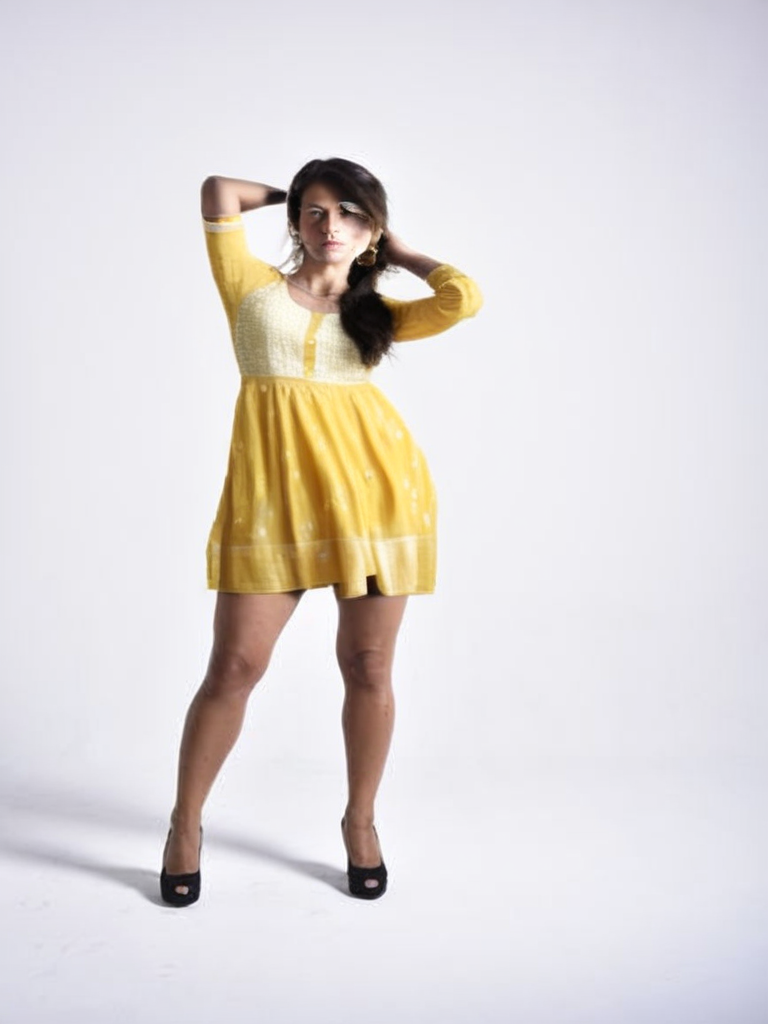
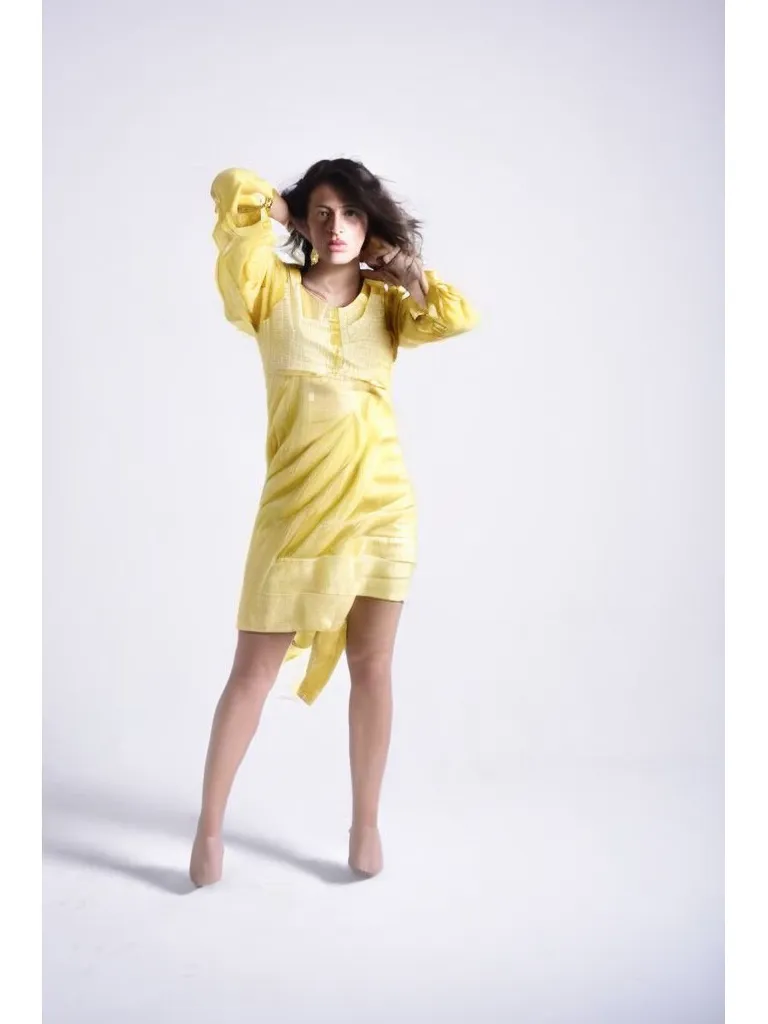
add robust retry logic to bake-results, generate first Leffa result
Rewrite bake-results with exponential backoff, per-space retry loops,
and transient error detection. Raise minimum file size guard to 10KB.
Include first Leffa full-body result (woman-1 anarkali).

Changed region(s): [[0.0, 0.0, 0.625, 1.0], [0.9375, 0.0, 1.0, 1.0]]

diff --git a/scripts/bake-results.ts b/scripts/bake-results.ts
@@ -11,6 +11,7 @@
 
 import { Client } from "@gradio/client";
 import { readFile, writeFile, mkdir } from "node:fs/promises";
+import { existsSync } from "node:fs";
 import { join } from "node:path";
 import process from "node:process";
 
@@ -29,74 +30,52 @@ interface BakePair {
 }
 
 const PAIRS: BakePair[] = [
-  {
-    person: "woman-1.jpg",
-    garment: "anarkali-suit.jpg",
-    out: "woman-1--anarkali.jpg",
-    category: "dresses",
-  },
-  {
-    person: "woman-2.jpg",
-    garment: "anarkali-suit.jpg",
-    out: "woman-2--anarkali.jpg",
-    category: "dresses",
-  },
-  {
-    person: "woman-1.jpg",
-    garment: "lehenga-choli.jpg",
-    out: "woman-1--lehenga.jpg",
-    category: "dresses",
-  },
-  {
-    person: "woman-2.jpg",
-    garment: "lehenga-choli.jpg",
-    out: "woman-2--lehenga.jpg",
-    category: "dresses",
-  },
-  {
-    person: "woman-1.jpg",
-    garment: "salwar-kameez.jpg",
-    out: "woman-1--salwar.jpg",
-    category: "dresses",
-  },
-  {
-    person: "woman-2.jpg",
-    garment: "salwar-kameez.jpg",
-    out: "woman-2--salwar.jpg",
-    category: "dresses",
-  },
-  {
-    person: "man-1.jpg",
-    garment: "kurta-nehru.jpg",
-    out: "man-1--kurta-nehru.jpg",
-    category: "dresses",
-  },
-  {
-    person: "man-2.jpg",
-    garment: "kurta-nehru.jpg",
-    out: "man-2--kurta-nehru.jpg",
-    category: "dresses",
-  },
-  {
-    person: "man-1.jpg",
-    garment: "sherwani.jpg",
-    out: "man-1--sherwani.jpg",
-    category: "dresses",
-  },
-  {
-    person: "man-2.jpg",
-    garment: "sherwani.jpg",
-    out: "man-2--sherwani.jpg",
-    category: "dresses",
-  },
+  { person: "woman-1.jpg", garment: "anarkali-suit.jpg", out: "woman-1--anarkali.jpg", category: "dresses" },
+  { person: "woman-2.jpg", garment: "anarkali-suit.jpg", out: "woman-2--anarkali.jpg", category: "dresses" },
+  { person: "woman-1.jpg", garment: "lehenga-choli.jpg", out: "woman-1--lehenga.jpg", category: "dresses" },
+  { person: "woman-2.jpg", garment: "lehenga-choli.jpg", out: "woman-2--lehenga.jpg", category: "dresses" },
+  { person: "woman-1.jpg", garment: "salwar-kameez.jpg", out: "woman-1--salwar.jpg", category: "dresses" },
+  { person: "woman-2.jpg", garment: "salwar-kameez.jpg", out: "woman-2--salwar.jpg", category: "dresses" },
+  { person: "man-1.jpg", garment: "kurta-nehru.jpg", out: "man-1--kurta-nehru.jpg", category: "dresses" },
+  { person: "man-2.jpg", garment: "kurta-nehru.jpg", out: "man-2--kurta-nehru.jpg", category: "dresses" },
+  { person: "man-1.jpg", garment: "sherwani.jpg", out: "man-1--sherwani.jpg", category: "dresses" },
+  { person: "man-2.jpg", garment: "sherwani.jpg", out: "man-2--sherwani.jpg", category: "dresses" },
 ];
 
 const PRIMARY_SPACE = "franciszzj/Leffa";
 const FALLBACK_SPACE = "zhengchong/CatVTON";
+const MAX_RETRIES = 4;
+const SKIP_EXISTING = process.argv.includes("--skip-existing");
+
+function wait(ms: number) {
+  return new Promise((r) => setTimeout(r, ms));
+}
+
+function backoff(attempt: number): number {
+  return Math.min(5000 * Math.pow(2, attempt), 60000);
+}
 
 async function fileToBlob(path: string): Promise<Blob> {
   const buf = await readFile(path);
   return new Blob([buf], { type: "image/jpeg" });
+}
+
+function extractImageUrl(data: unknown[]): string {
+  const first = data[0];
+  if (typeof first === "string") return first;
+  if (first && typeof first === "object" && "url" in first) return (first as { url?: string }).url ?? "";
+  return "";
+}
+
+async function downloadImage(url: string): Promise<Buffer | null> {
+  const res = await fetch(url);
+  if (!res.ok) return null;
+  const buf = Buffer.from(await res.arrayBuffer());
+  if (buf.length < 10000) {
+    console.log(`  Warning: result too small (${buf.length} bytes), rejecting`);
+    return null;
+  }
+  return buf;
 }
 
 async function tryLeffa(
@@ -120,26 +99,9 @@ async function tryLeffa(
     vt_repaint: false,
   });
 
-  const data = result.data as Array<{ url?: string; path?: string } | string | null>;
-  const first = data[0];
-  let imageUrl = "";
-
-  if (typeof first === "string") {
-    imageUrl = first;
-  } else if (first && typeof first === "object") {
-    imageUrl = first.url ?? "";
-  }
-
+  const imageUrl = extractImageUrl(result.data as unknown[]);
   if (!imageUrl) return null;
-
-  const res = await fetch(imageUrl);
-  if (!res.ok) return null;
-  const buf = Buffer.from(await res.arrayBuffer());
-  if (buf.length < 5000) {
-    console.log(`  Warning: result too small (${buf.length} bytes), likely a thumbnail`);
-    return null;
-  }
-  return buf;
+  return downloadImage(imageUrl);
 }
 
 function mapCategoryToCatVTON(cat: GarmentCategory): string {
@@ -155,7 +117,7 @@ async function tryCatVTON(
   category: GarmentCategory,
 ): Promise<Buffer | null> {
   const client = await Client.connect(FALLBACK_SPACE, {
-    token: token as `hf_${string}` | undefined,
+    hf_token: token as `hf_${string}` | undefined,
   });
 
   const personBlob = await fileToBlob(personPath);
@@ -171,20 +133,84 @@ async function tryCatVTON(
     "result only",
   ]);
 
-  const data = result.data as Array<{ url?: string } | string | null>;
-  let imageUrl = "";
+  const imageUrl = extractImageUrl(result.data as unknown[]);
+  if (!imageUrl) return null;
+  return downloadImage(imageUrl);
+}
 
-  if (typeof data[0] === "string") {
-    imageUrl = data[0];
-  } else if (data[0] && typeof data[0] === "object" && "url" in data[0]) {
-    imageUrl = data[0].url ?? "";
+function isQuotaError(msg: string): boolean {
+  return msg.includes("ZeroGPU quota") || msg.includes("exceeded");
+}
+
+function isTransientError(msg: string): boolean {
+  return (
+    msg.includes("Connection errored") ||
+    msg.includes("fetch failed") ||
+    msg.includes("queue") ||
+    msg.includes("ETIMEDOUT") ||
+    msg.includes("ECONNRESET") ||
+    msg.includes("503") ||
+    msg.includes("504")
+  );
+}
+
+async function generateOne(
+  pair: BakePair,
+  token: string,
+  leffaClient: Awaited<ReturnType<typeof Client.connect>> | null,
+): Promise<{ buf: Buffer | null; leffaDead: boolean }> {
+  const personPath = join(PEOPLE_DIR, pair.person);
+  const garmentPath = join(GARMENT_DIR, pair.garment);
+  let leffaDead = false;
+
+  // Try Leffa with retries
+  if (leffaClient) {
+    for (let attempt = 0; attempt < MAX_RETRIES; attempt++) {
+      if (attempt > 0) {
+        const delay = backoff(attempt);
+        console.log(`  Retrying Leffa in ${(delay / 1000).toFixed(0)}s (attempt ${attempt + 1}/${MAX_RETRIES})...`);
+        await wait(delay);
+      }
+      try {
+        const buf = await tryLeffa(leffaClient, personPath, garmentPath, pair.category);
+        if (buf) return { buf, leffaDead: false };
+        console.log(`  Leffa returned empty result, retrying...`);
+      } catch (err) {
+        const msg = (err as Error).message ?? "";
+        console.log(`  Leffa error: ${msg.substring(0, 150)}`);
+        if (isQuotaError(msg)) {
+          console.log("  ZeroGPU quota exhausted for Leffa.");
+          leffaDead = true;
+          break;
+        }
+        if (!isTransientError(msg) && attempt >= 1) break;
+      }
+    }
   }
 
-  if (!imageUrl) return null;
+  // Try CatVTON with retries
+  for (let attempt = 0; attempt < MAX_RETRIES; attempt++) {
+    if (attempt > 0) {
+      const delay = backoff(attempt);
+      console.log(`  Retrying CatVTON in ${(delay / 1000).toFixed(0)}s (attempt ${attempt + 1}/${MAX_RETRIES})...`);
+      await wait(delay);
+    }
+    try {
+      const buf = await tryCatVTON(token, personPath, garmentPath, pair.category);
+      if (buf) return { buf, leffaDead };
+      console.log(`  CatVTON returned empty result, retrying...`);
+    } catch (err) {
+      const msg = (err as Error).message ?? "";
+      console.log(`  CatVTON error: ${msg.substring(0, 150)}`);
+      if (isQuotaError(msg)) {
+        console.log("  ZeroGPU quota exhausted for CatVTON too.");
+        return { buf: null, leffaDead };
+      }
+      if (!isTransientError(msg) && attempt >= 1) break;
+    }
+  }
 
-  const res = await fetch(imageUrl);
-  if (!res.ok) return null;
-  return Buffer.from(await res.arrayBuffer());
+  return { buf: null, leffaDead };
 }
 
 async function main() {
@@ -200,74 +226,64 @@ async function main() {
   let leffaClient: Awaited<ReturnType<typeof Client.connect>> | null = null;
   try {
     leffaClient = await Client.connect(PRIMARY_SPACE, {
-      token: token as `hf_${string}`,
+      hf_token: token as `hf_${string}`,
     });
     console.log("Connected to Leffa.");
   } catch (err) {
     console.log("Leffa connect failed:", (err as Error).message?.substring(0, 100));
   }
 
-  const failed: string[] = [];
-  let completed = 0;
-
+  const remaining = new Map<string, BakePair>();
   for (const pair of PAIRS) {
-    const outPath = join(RESULTS_DIR, pair.out);
-
-    console.log(`\nGenerating ${pair.out} (category: ${pair.category})...`);
-    const personPath = join(PEOPLE_DIR, pair.person);
-    const garmentPath = join(GARMENT_DIR, pair.garment);
-
-    let buf: Buffer | null = null;
-
-    // Try Leffa (full-body dress mode)
-    if (leffaClient) {
-      for (let attempt = 0; attempt < 2 && !buf; attempt++) {
-        if (attempt > 0) await new Promise((r) => setTimeout(r, 5000));
-        try {
-          buf = await tryLeffa(leffaClient, personPath, garmentPath, pair.category);
-        } catch (err) {
-          const msg = (err as Error).message ?? "";
-          console.log(`  Leffa error: ${msg.substring(0, 150)}`);
-          if (msg.includes("ZeroGPU quota")) {
-            console.log("  ZeroGPU quota exhausted. Stopping — re-run when quota resets.");
-            leffaClient = null;
-            break;
-          }
+    if (SKIP_EXISTING) {
+      const outPath = join(RESULTS_DIR, pair.out);
+      if (existsSync(outPath)) {
+        const { size } = await import("node:fs").then((fs) => fs.statSync(outPath));
+        if (size > 10000) {
+          console.log(`  SKIP ${pair.out} (${(size / 1024).toFixed(0)} KB, already exists)`);
+          continue;
         }
       }
     }
+    remaining.set(pair.out, pair);
+  }
 
-    // Try CatVTON (also full-body)
-    if (!buf) {
-      try {
-        buf = await tryCatVTON(token, personPath, garmentPath, pair.category);
-      } catch (err) {
-        const msg = (err as Error).message ?? "";
-        console.log(`  CatVTON error: ${msg.substring(0, 150)}`);
+  let completed = 0;
+  let bothQuotaDead = false;
+
+  for (const [name, pair] of remaining) {
+    if (bothQuotaDead) break;
+
+    console.log(`\nGenerating ${name} (category: ${pair.category})...`);
+    const { buf, leffaDead } = await generateOne(pair, token, leffaClient);
+
+    if (leffaDead) leffaClient = null;
+
+    if (buf && buf.length > 10000) {
+      const outPath = join(RESULTS_DIR, name);
+      await writeFile(outPath, buf);
+      console.log(`  OK ${name} (${(buf.length / 1024).toFixed(0)} KB) [full-body]`);
+      remaining.delete(name);
+      completed++;
+    } else {
+      console.log(`  FAILED ${name}`);
+      if (!leffaClient) {
+        bothQuotaDead = true;
       }
     }
 
-    if (buf && buf.length > 1000) {
-      await writeFile(outPath, buf);
-      console.log(`  OK ${pair.out} (${(buf.length / 1024).toFixed(0)} KB) [full-body]`);
-      completed++;
-    } else {
-      console.log(`  FAILED ${pair.out} — no valid image returned`);
-      failed.push(pair.out);
-    }
-
-    await new Promise((r) => setTimeout(r, 2000));
+    await wait(2000);
   }
 
-  console.log(`\nDone. ${completed}/10 results generated.`);
-  if (failed.length > 0) {
-    console.log("Failed slots:", failed.join(", "));
+  console.log(`\nDone. ${completed}/${PAIRS.length} new results generated.`);
+  if (remaining.size > 0) {
+    console.log(`Incomplete: ${[...remaining.keys()].join(", ")}`);
     console.log("Re-run when ZeroGPU quota resets.");
   }
 }
 
 process.on("unhandledRejection", (err) => {
-  console.log("Unhandled rejection (Gradio client):", (err as Error).message?.substring(0, 100));
+  console.log("Unhandled rejection:", (err as Error).message?.substring(0, 100));
 });
 
 main().catch((err) => {